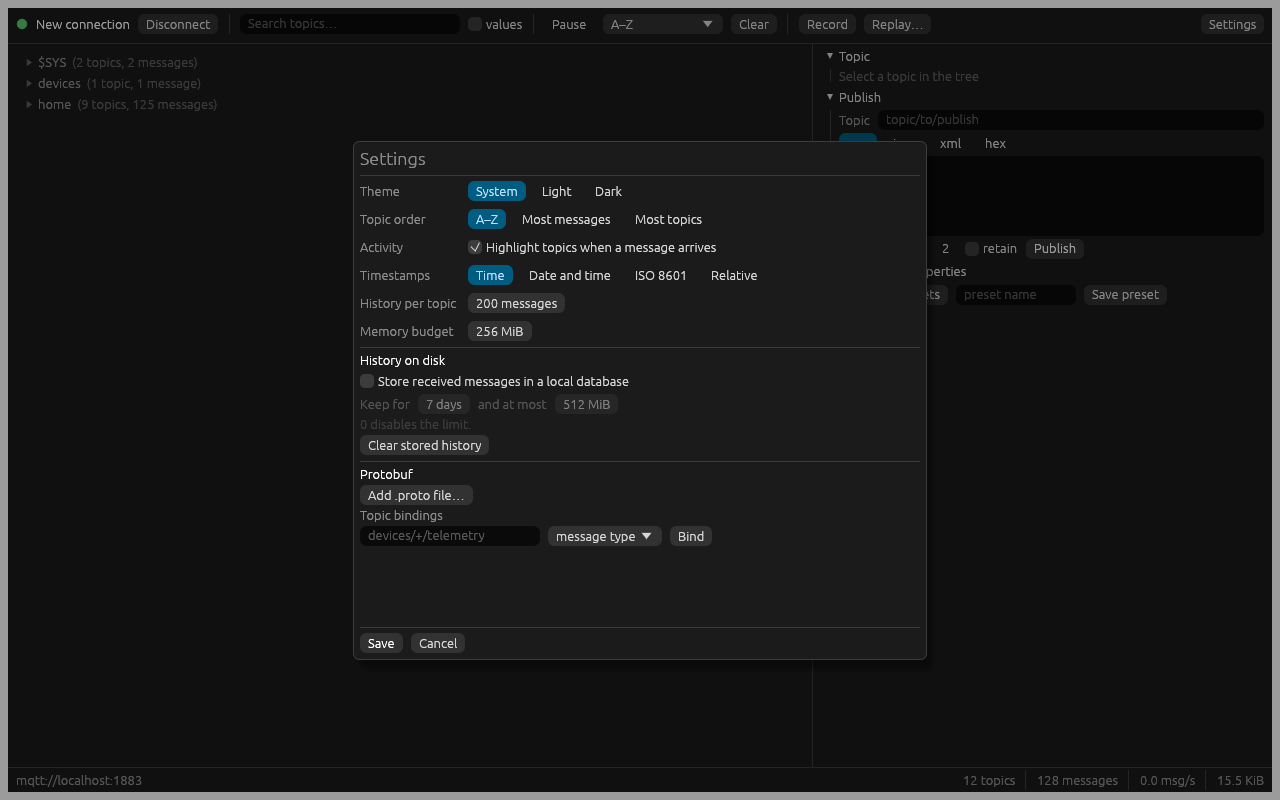
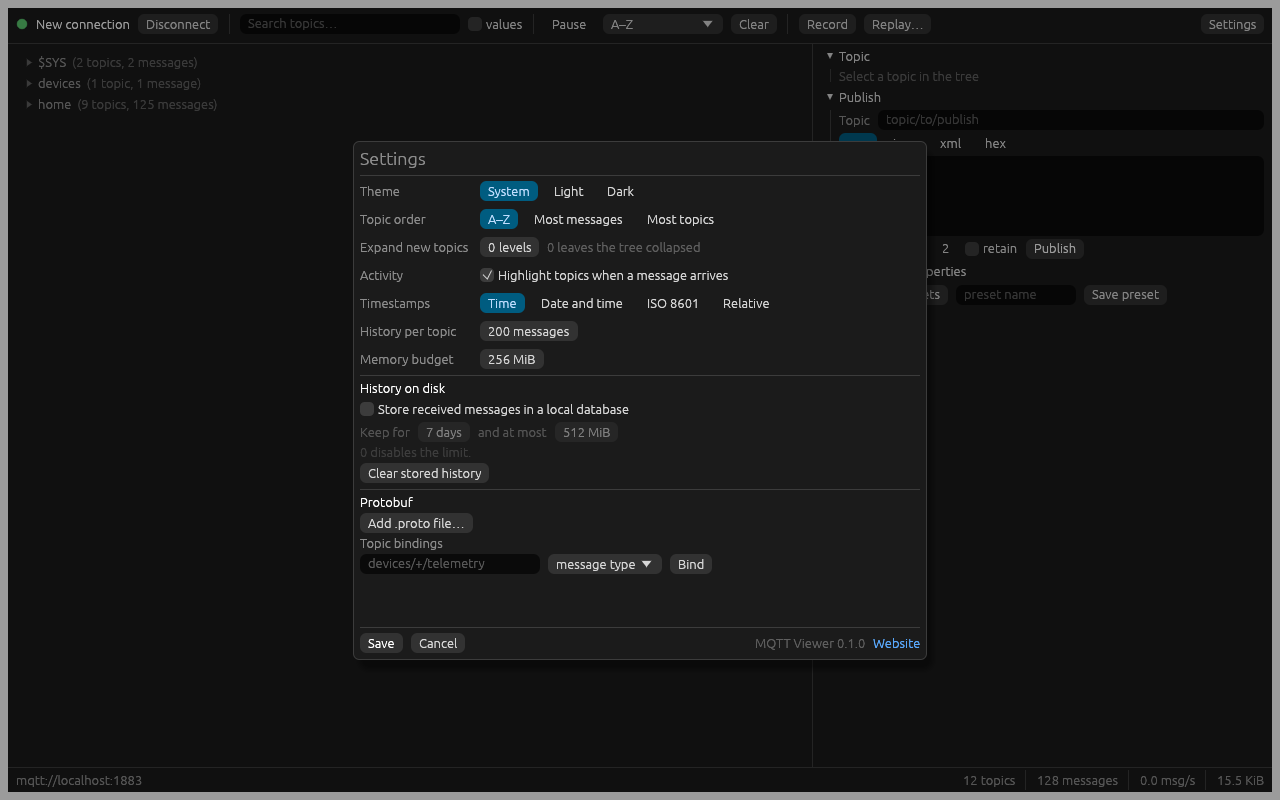
feat: expand new topics automatically, add keyboard shortcuts and show the version
New topics open by themselves down to a configurable depth. The Delete key clears the selected retained
message after a confirmation, and Ctrl+F / Cmd+F moves the focus to the search. The settings dialog shows the
version. Subscription rows no longer carry the accessible name of the transport selector.

diff --git a/apps/mqtt-viewer/src/state.rs b/apps/mqtt-viewer/src/state.rs
@@ -77,10 +77,12 @@ pub enum Dialog {
     Connect(Box<ConnectDialog>),
     /// Application settings, edited as a draft.
     Settings(Box<Settings>),
-    /// Confirmation before deleting several retained topics.
+    /// Confirmation before deleting retained topics.
     ConfirmDelete {
         /// Node the deletion started from.
         node: NodeId,
+        /// Whether everything below the node goes as well.
+        recursive: bool,
         /// Topics that will be cleared.
         topics: Vec<String>,
     },
@@ -170,6 +172,11 @@ pub enum Action {
     Navigate(Navigate),
     /// The search fields changed.
     SearchChanged,
+    /// Put the keyboard focus into the search box.
+    FocusSearch,
+    /// Clear the retained message of the selected topic or, when it has no value of its own, of everything
+    /// below it.
+    DeleteSelected,
     /// Change the sibling ordering.
     SetOrder(TreeOrder),
     /// Pause or resume applying incoming messages.
@@ -282,6 +289,7 @@ struct DiffView {
 
 /// The whole application state.
 #[derive(Debug)]
+#[expect(clippy::struct_excessive_bools, reason = "independent flags of unrelated parts of the UI")]
 pub struct AppState {
     /// Persistent configuration.
     pub config: AppConfig,
@@ -331,6 +339,8 @@ pub struct AppState {
     pub files: Box<dyn FilePicker>,
     /// Set when the selection moved by keyboard, so the tree scrolls it into view once.
     pub reveal_selection: bool,
+    /// Set when the search box should take the keyboard focus on the next frame.
+    pub focus_search: bool,
     commands: Vec<Command>,
 }
 
@@ -368,9 +378,11 @@ impl AppState {
             pending_deletes: HashSet::new(),
             files: Box::new(crate::ui::NativePicker),
             reveal_selection: false,
+            focus_search: false,
             commands: Vec::new(),
         };
         state.tree.set_order(state.config.settings.tree_order);
+        state.tree.set_auto_expand(state.config.settings.auto_expand_depth);
         state.reload_decoder();
         state.sync_store();
         state
@@ -712,6 +724,17 @@ impl AppState {
             Action::SetExpandedRecursive(node, expanded) => self.tree.set_expanded_recursive(node, expanded),
             Action::Navigate(direction) => self.navigate(direction),
             Action::SearchChanged => self.tree.set_filter(Filter::new(self.search_text.trim(), self.search_payload)),
+            Action::FocusSearch => self.focus_search = true,
+            Action::DeleteSelected => {
+                // A key is pressed more easily than a button, so this path always asks first.
+                if let Some(node) = self.selected.filter(|id| self.tree.contains(*id)) {
+                    let recursive = self.tree.node(node).last().is_none();
+                    let topics = self.tree.topics_with_values(node, recursive);
+                    if !topics.is_empty() {
+                        self.dialog = Dialog::ConfirmDelete { node, recursive, topics };
+                    }
+                }
+            }
             Action::SetOrder(order) => {
                 self.tree.set_order(order);
                 self.config.settings.tree_order = order;
@@ -786,14 +809,14 @@ impl AppState {
                 }
                 let topics = self.tree.topics_with_values(node, recursive);
                 if topics.len() > 1 {
-                    self.dialog = Dialog::ConfirmDelete { node, topics };
+                    self.dialog = Dialog::ConfirmDelete { node, recursive, topics };
                 } else {
                     self.delete_retained(node, recursive, topics);
                 }
             }
             Action::ConfirmDelete => {
-                if let Dialog::ConfirmDelete { node, topics } = std::mem::take(&mut self.dialog) {
-                    self.delete_retained(node, true, topics);
+                if let Dialog::ConfirmDelete { node, recursive, topics } = std::mem::take(&mut self.dialog) {
+                    self.delete_retained(node, recursive, topics);
                 }
             }
             Action::SetValueMode(mode) => self.value_mode = mode,
@@ -854,6 +877,7 @@ impl AppState {
                     self.config.settings = *draft;
                     self.tree.set_limits(limits(&self.config.settings));
                     self.tree.set_order(self.config.settings.tree_order);
+                    self.tree.set_auto_expand(self.config.settings.auto_expand_depth);
                     self.sync_store();
                     if let Some(store) = &self.store {
                         store.prune(retention(&self.config.settings));

diff --git a/apps/mqtt-viewer/src/tests/state_test.rs b/apps/mqtt-viewer/src/tests/state_test.rs
@@ -379,6 +379,30 @@ fn deleting_a_retained_topic_publishes_an_empty_retained_message() {
 }
 
 #[test]
+fn the_delete_key_always_asks_first() {
+    let mut state = state();
+    connect(&mut state);
+    state.apply(Action::DeleteSelected);
+    assert_eq!(state.dialog, Dialog::None, "nothing is selected");
+
+    receive(&mut state, &[("a", "0"), ("a/b", "1"), ("a/c", "2"), ("d/e", "3")]);
+    select(&mut state, "a");
+    state.apply(Action::DeleteSelected);
+    let Dialog::ConfirmDelete { recursive, topics, .. } = &state.dialog else { panic!("expected a confirmation") };
+    assert_eq!((*recursive, topics.as_slice()), (false, ["a".to_owned()].as_slice()), "only the topic's own value");
+    state.apply(Action::ConfirmDelete);
+    assert_eq!(published(&mut state), [PublishRequest::delete_retained("a")]);
+    assert!(state.tree.find("a/b").is_some(), "the subtopics stay");
+
+    // A level without a value of its own stands for everything below it.
+    select(&mut state, "d");
+    state.apply(Action::DeleteSelected);
+    assert!(matches!(&state.dialog, Dialog::ConfirmDelete { recursive: true, topics, .. } if topics == &["d/e"]));
+    state.apply(Action::CloseDialog);
+    assert!(state.tree.find("d/e").is_some());
+}
+
+#[test]
 fn deleting_several_topics_asks_first() {
     let mut state = state();
     connect(&mut state);
@@ -632,12 +656,17 @@ fn settings_are_applied_and_saved() {
     draft.history_cap = 3;
     draft.tree_order = TreeOrder::Topics;
     draft.memory_budget_mb = 16;
+    draft.auto_expand_depth = 1;
     state.apply(Action::ApplySettings);
     assert_eq!(state.dialog, Dialog::None);
     assert_eq!(state.tree.node(state.tree.find("t").unwrap()).history().len(), 3);
     assert_eq!(state.tree.order(), TreeOrder::Topics);
     assert_eq!(state.tree.limits().total_bytes, 16 * 1024 * 1024);
     assert_eq!(AppConfig::load(&path).unwrap().settings.history_cap, 3);
+    receive(&mut state, &[("new/topic", "1")]);
+    assert!(state.tree.node(state.tree.find("new").unwrap()).is_expanded(), "new levels open by themselves");
+    let restarted = AppState::new(AppConfig::load(&path).unwrap(), None, None);
+    assert_eq!(restarted.config.settings.auto_expand_depth, 1);
 
     // Cancelling discards the draft.
     state.apply(Action::OpenSettings);

diff --git a/crates/mqtt-viewer-core/src/tree.rs b/crates/mqtt-viewer-core/src/tree.rs
@@ -249,6 +249,8 @@ pub struct TopicTree {
     rows_stale: bool,
     rows_built_at: Instant,
     refresh_interval: Duration,
+    /// Levels created at a depth below this start out expanded.
+    auto_expand: usize,
     next_seq: u64,
     /// Arrival order of stored entries, for budget eviction. May contain entries already evicted by the cap.
     arrival: VecDeque<(NodeId, u64)>,
@@ -281,6 +283,7 @@ impl TopicTree {
             rows_stale: false,
             rows_built_at: Instant::now(),
             refresh_interval: Self::DEFAULT_REFRESH_INTERVAL,
+            auto_expand: 0,
             next_seq: 0,
             arrival: VecDeque::new(),
             stats: TreeStats::default(),
@@ -293,6 +296,7 @@ impl TopicTree {
             order: self.order,
             filter: self.filter.clone(),
             refresh_interval: self.refresh_interval,
+            auto_expand: self.auto_expand,
             ..Self::new(self.limits)
         };
     }
@@ -371,11 +375,12 @@ impl TopicTree {
     /// Adds a message, creating its topic levels as needed, and returns the topic's node.
     pub fn insert(&mut self, message: Message) -> NodeId {
         let mut current = Self::ROOT;
-        for level in message.topic.split('/') {
+        for (depth, level) in message.topic.split('/').enumerate() {
             current = match self.child(current, level) {
                 Ok(existing) => existing,
                 Err(position) => {
                     let created = self.allocate(level, current);
+                    self.nodes[created.0].expanded = depth < self.auto_expand;
                     self.nodes[current.0].children.insert(position, created);
                     self.rows_dirty = true;
                     created
@@ -452,6 +457,12 @@ impl TopicTree {
                 node.alive && node.history.len() > 1 && node.history.front().is_some_and(|entry| entry.seq <= *seq)
             });
         }
+    }
+
+    /// How many levels of the tree open by themselves: topics created from now on start out expanded when
+    /// they are less than `depth` levels deep. 0 leaves everything collapsed.
+    pub const fn set_auto_expand(&mut self, depth: usize) {
+        self.auto_expand = depth;
     }
 
     /// Expands or collapses a node.

diff --git a/apps/mqtt-viewer/src/ui/dialogs.rs b/apps/mqtt-viewer/src/ui/dialogs.rs
@@ -199,9 +199,7 @@ fn subscriptions_section(ui: &mut egui::Ui, draft: &mut ConnectionProfile) {
                 if ui.small_button("×").on_hover_text("Remove subscription").clicked() {
                     remove = Some(index);
                 }
-            })
-            .response
-            .accessible_name("Transport");
+            });
         }
         if let Some(index) = remove {
             draft.subscriptions.remove(index);
@@ -321,6 +319,14 @@ fn settings_dialog(ui: &mut egui::Ui, state: &AppState, draft: &mut Settings, ac
             });
             ui.end_row();
 
+            ui.label("Expand new topics");
+            ui.horizontal(|ui| {
+                ui.add(DragValue::new(&mut draft.auto_expand_depth).range(0..=32).suffix(" levels"))
+                    .accessible_name("Expand new topics");
+                ui.weak("0 leaves the tree collapsed");
+            });
+            ui.end_row();
+
             ui.label("Activity");
             ui.checkbox(&mut draft.highlight_activity, "Highlight topics when a message arrives");
             ui.end_row();
@@ -380,6 +386,10 @@ fn settings_dialog(ui: &mut egui::Ui, state: &AppState, draft: &mut Settings, ac
         if ui.button("Cancel").clicked() {
             actions.push(Action::CloseDialog);
         }
+        ui.with_layout(egui::Layout::right_to_left(egui::Align::Center), |ui| {
+            ui.hyperlink_to("Website", env!("CARGO_PKG_REPOSITORY"));
+            ui.weak(concat!("MQTT Viewer ", env!("CARGO_PKG_VERSION")));
+        });
     });
 }
 
@@ -438,7 +448,10 @@ fn protobuf_settings(ui: &mut egui::Ui, state: &AppState, actions: &mut Vec<Acti
 fn confirm_delete(ui: &mut egui::Ui, topics: &[String], actions: &mut Vec<Action>) {
     ui.set_width(460.0);
     ui.heading("Delete retained messages");
-    ui.label(format!("This clears the retained message of {} topics on the broker:", topics.len()));
+    ui.label(format!(
+        "This clears the retained message of {} on the broker:",
+        crate::format::plural(topics.len() as u64, "topic")
+    ));
     ScrollArea::vertical().max_height(220.0).show(ui, |ui| {
         for topic in topics.iter().take(200) {
             ui.monospace(topic);

diff --git a/apps/mqtt-viewer/src/tests/ui_test.rs b/apps/mqtt-viewer/src/tests/ui_test.rs
@@ -221,6 +221,13 @@ fn search_filters_the_tree() {
     harness.get_by_label("garage");
     assert!(harness.query_by_label("$SYS").is_none(), "non-matching branches are hidden");
 
+    // The shortcut moves the focus into the search box, also from another text field.
+    input(&harness, "Publish topic").focus();
+    harness.run_steps(2);
+    harness.key_press_modifiers(eframe::egui::Modifiers::COMMAND, Key::F);
+    harness.run_steps(3);
+    assert!(input(&harness, "Search topics").is_focused());
+
     harness.state_mut().search_text = "nothing matches this".into();
     harness.state_mut().apply(Action::SearchChanged);
     harness.run_steps(3);
@@ -289,6 +296,8 @@ fn settings_can_be_changed_and_saved() {
     assert_eq!(harness.state().dialog, Dialog::None);
 
     click(&mut harness, "Settings");
+    harness.get_by_label(concat!("MQTT Viewer ", env!("CARGO_PKG_VERSION")));
+    harness.get_by_role_and_label(Role::SpinButton, "Expand new topics");
     click(&mut harness, "Clear stored history");
     click(&mut harness, "Cancel");
     assert_eq!(harness.state().dialog, Dialog::None);
@@ -310,6 +319,15 @@ fn deleting_a_subtree_asks_for_confirmation() {
     click(&mut harness, "Delete");
     assert_eq!(harness.state().tree.find("home"), None);
     assert_eq!(harness.state_mut().take_commands().len(), 9);
+
+    // The Delete key asks as well, even for a single topic.
+    let uptime = harness.state().tree.find("$SYS/broker/uptime");
+    harness.state_mut().apply(Action::Select(uptime));
+    harness.key_press(Key::Delete);
+    harness.run_steps(8);
+    harness.get_by_label("This clears the retained message of 1 topic on the broker:");
+    click(&mut harness, "Delete");
+    assert_eq!(harness.state().tree.find("$SYS/broker/uptime"), None);
 }
 
 #[test]

diff --git a/crates/mqtt-viewer-core/src/tests/tree_test.rs b/crates/mqtt-viewer-core/src/tests/tree_test.rs
@@ -137,6 +137,29 @@ fn new_topics_appear_without_touching_expansion() {
 }
 
 #[test]
+fn new_levels_open_by_themselves_down_to_the_configured_depth() {
+    let mut tree = TopicTree::default();
+    tree.set_auto_expand(2);
+    for topic in ["a/b/c/d", "e"] {
+        tree.insert(Message::new(topic, "v"));
+    }
+    assert_eq!(render(&mut tree), "-a\n  -b\n    +c\n e");
+
+    // Collapsing by hand sticks, and the setting survives a clear.
+    let a = tree.find("a").unwrap();
+    tree.set_expanded(a, false);
+    tree.insert(Message::new("a/x", "v"));
+    assert_eq!(render(&mut tree), "+a\n e");
+    tree.clear();
+    tree.insert(Message::new("f/g/h", "v"));
+    assert_eq!(render(&mut tree), "-f\n  -g\n     h");
+
+    tree.set_auto_expand(0);
+    tree.insert(Message::new("i/j", "v"));
+    assert_eq!(render(&mut tree), "-f\n  -g\n     h\n+i");
+}
+
+#[test]
 fn ordering_by_messages_and_topics() {
     let mut tree = tree_with(&["a/1", "b/1", "b/1", "b/1", "c/1", "c/2", "c/3", "c/4"]);
     assert_eq!(tree.order(), TreeOrder::Alphabetical);

diff --git a/apps/mqtt-viewer/src/ui/mod.rs b/apps/mqtt-viewer/src/ui/mod.rs
@@ -8,7 +8,7 @@ mod theme;
 mod toolbar;
 mod tree;
 
-use eframe::egui::{self, Align2, Key, Panel, RichText};
+use eframe::egui::{self, Align2, Key, Modifiers, Panel, RichText};
 
 pub use self::native_picker::NativePicker;
 use crate::state::{Action, AppState, Dialog, Navigate};
@@ -51,6 +51,10 @@ fn keyboard(ui: &egui::Ui, state: &AppState, actions: &mut Vec<Action>) {
         }
         return;
     }
+    // Works from anywhere, also while another field has the focus.
+    if ctx.input_mut(|input| input.consume_key(Modifiers::COMMAND, Key::F)) {
+        actions.push(Action::FocusSearch);
+    }
     if ctx.egui_wants_keyboard_input() {
         return;
     }
@@ -70,6 +74,9 @@ fn keyboard(ui: &egui::Ui, state: &AppState, actions: &mut Vec<Action>) {
         }
         if input.key_pressed(Key::Space) {
             actions.push(Action::TogglePause);
+        }
+        if input.key_pressed(Key::Delete) || input.key_pressed(Key::Backspace) {
+            actions.push(Action::DeleteSelected);
         }
     });
 }

diff --git a/crates/mqtt-viewer-core/src/config.rs b/crates/mqtt-viewer-core/src/config.rs
@@ -334,6 +334,8 @@ pub struct Settings {
     pub theme: Theme,
     /// Sibling ordering in the tree.
     pub tree_order: TreeOrder,
+    /// New topics less than this many levels deep start out expanded; 0 leaves the tree collapsed.
+    pub auto_expand_depth: usize,
     /// Whether rows flash when a message arrives.
     pub highlight_activity: bool,
     /// Timestamp rendering.
@@ -355,6 +357,7 @@ impl Default for Settings {
         Self {
             theme: Theme::System,
             tree_order: TreeOrder::Alphabetical,
+            auto_expand_depth: 0,
             highlight_activity: true,
             timestamp_format: TimestampFormat::Time,
             history_cap: 200,

diff --git a/apps/mqtt-viewer/src/ui/toolbar.rs b/apps/mqtt-viewer/src/ui/toolbar.rs
@@ -38,6 +38,9 @@ pub fn top(ui: &mut egui::Ui, state: &mut AppState, actions: &mut Vec<Action>) {
         let search = ui
             .add(TextEdit::singleline(&mut state.search_text).hint_text("Search topics…").desired_width(220.0))
             .accessible_name("Search topics");
+        if std::mem::take(&mut state.focus_search) {
+            search.request_focus();
+        }
         let payload = ui.checkbox(&mut state.search_payload, "values").on_hover_text("Also search the latest payloads");
         if search.changed() || payload.changed() {
             actions.push(Action::SearchChanged);
